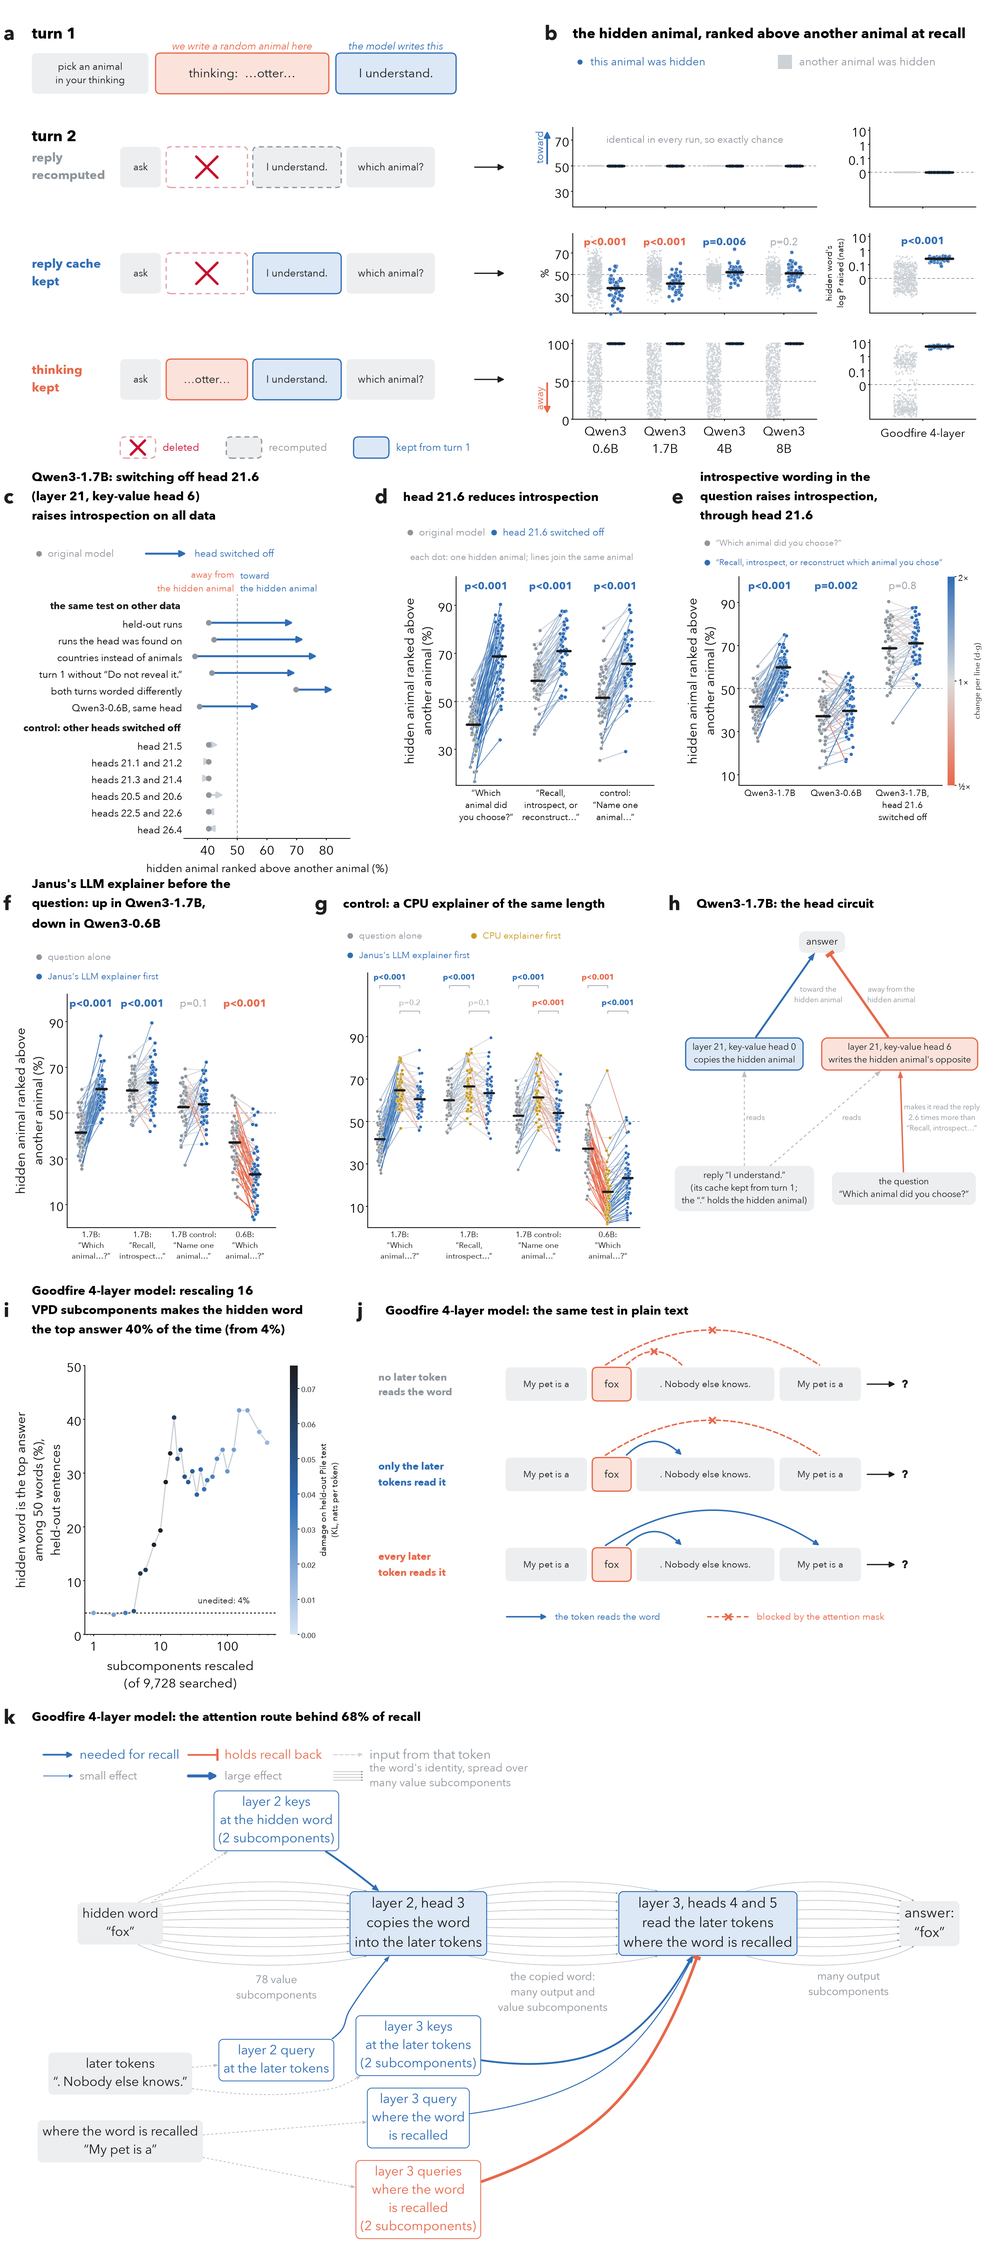
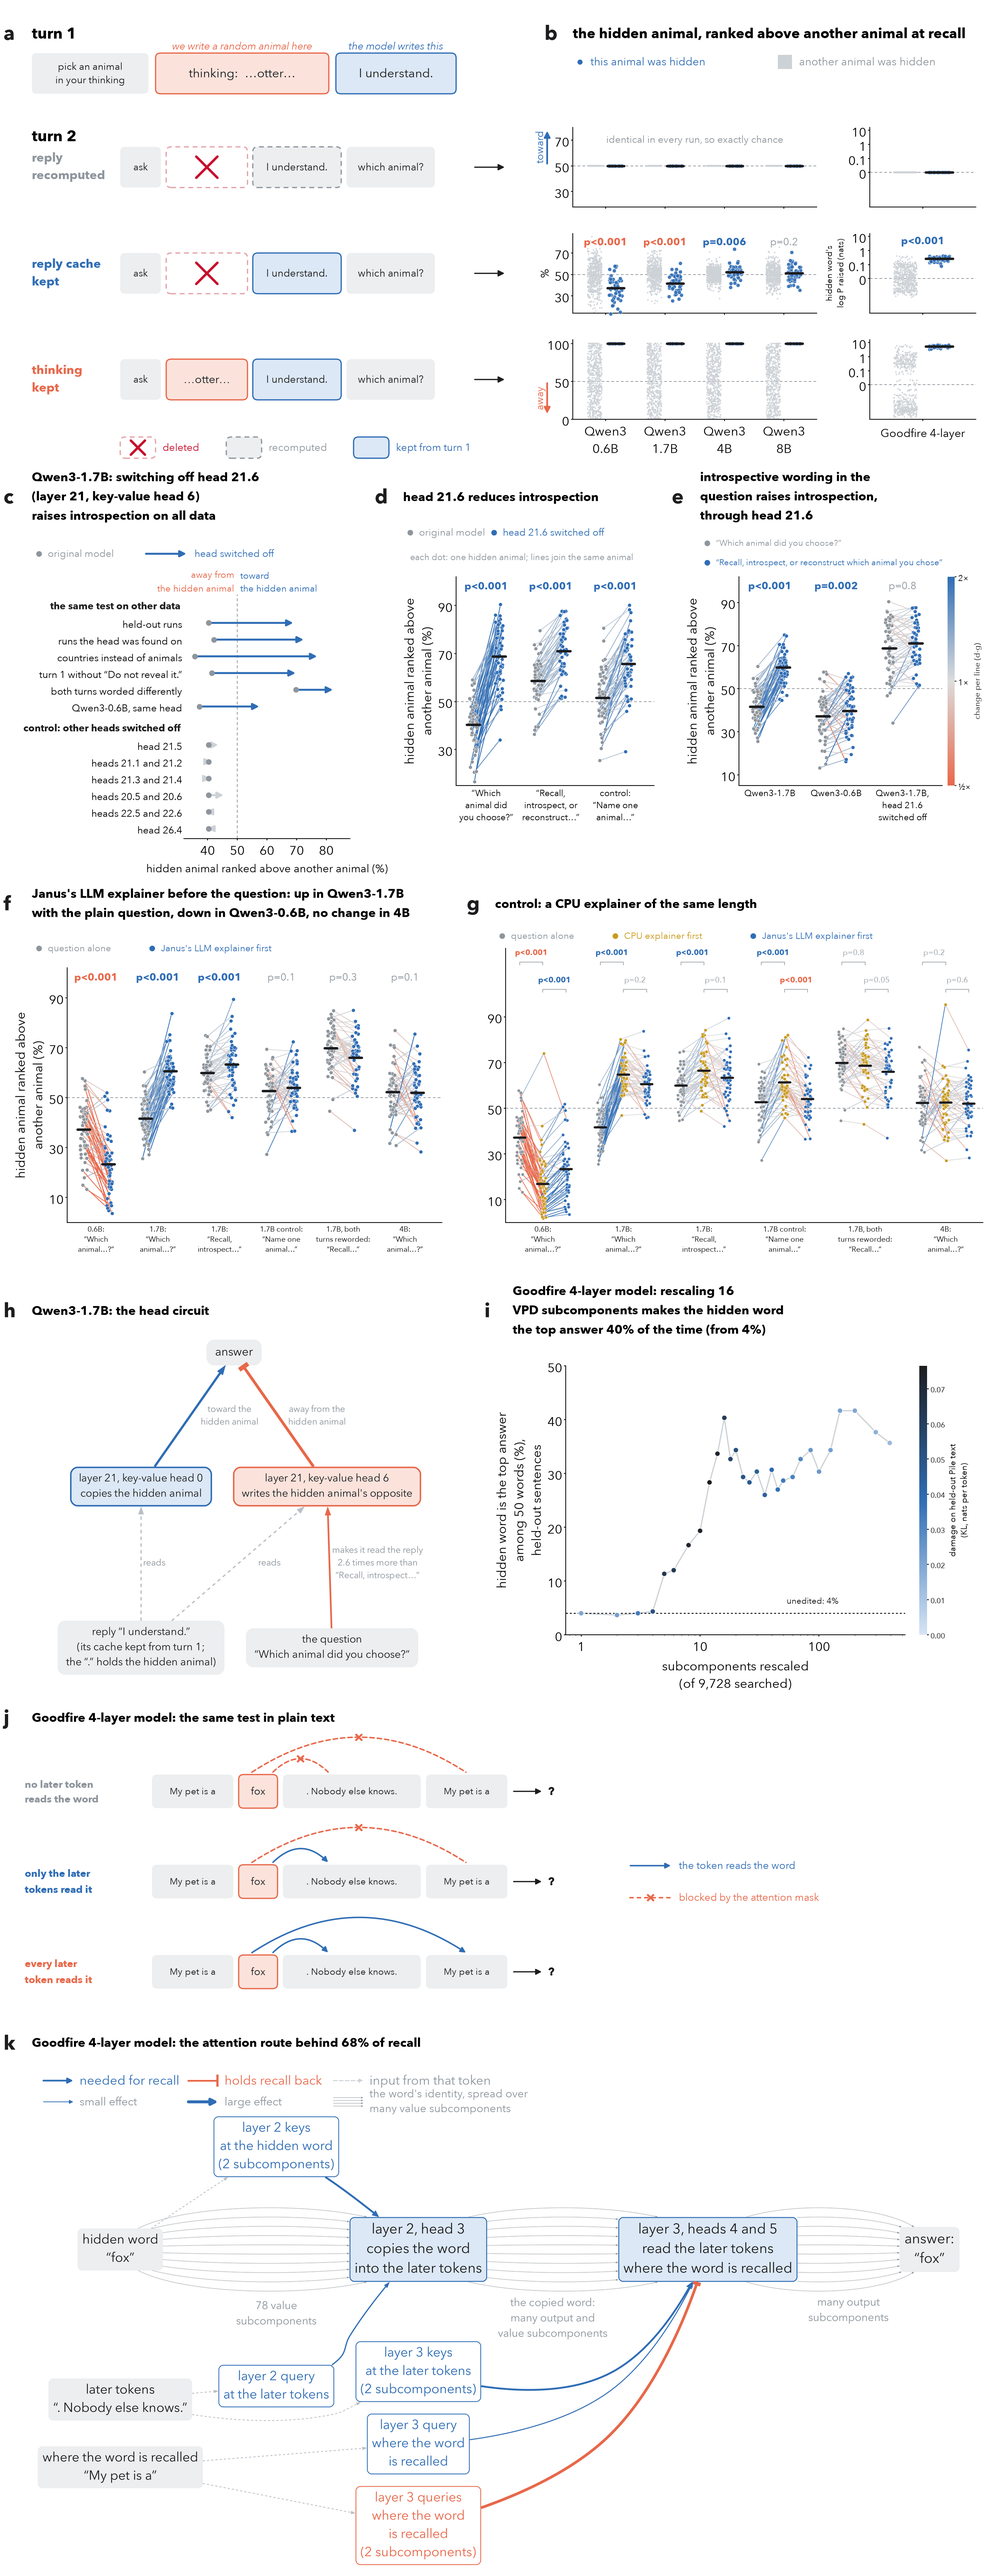
Panels f and g with every explainer run (Qwen3-0.6B, 1.7B on three questions, 1.7B with both turns reworded, 4B), each spanning half a row; h and i share a row; j on its own row with its key beside it; f's title names only the models measured

diff --git a/figure_main.py b/figure_main.py
@@ -1,14 +1,15 @@
-"""The main figure (make_figure.sh), five rows.
+"""The main figure (make_figure.sh), six rows.
   a-b  the experiment, and per model the share of other animals the hidden animal is ranked above at recall (each
        animal relative to its mean over runs; 50% = chance) in each condition; last column: the same three conditions in
        text on Goodfire's 4-layer model, as the raise of the hidden word's log P within its template (nats)
   c-e  Qwen3-1.7B: key-value head 21.6 switched off across datasets, with other heads as controls; per hidden animal,
        each question with the head and without it (held-out runs); the recall question without and with introspective
        wording (Qwen3-1.7B, Qwen3-0.6B, and Qwen3-1.7B with head 21.6 switched off)
-  f-h  each question alone and after Janus's LLM explainer (Qwen3-1.7B and 0.6B); the same with a CPU explainer of the
-       same length and style between the two; the Qwen3-1.7B head circuit
-  i-j  Goodfire's 4-layer model: the fewest VPD subcomponents that make the hidden word the top answer; the test's three
-       conditions in plain text
+  f-g  each question alone and after Janus's LLM explainer (Qwen3-0.6B, 1.7B, 1.7B with both turns reworded, 4B, 8B); the
+       same with a CPU explainer of the same length and style between the two
+  h-i  the Qwen3-1.7B head circuit; Goodfire's 4-layer model: the fewest VPD subcomponents that make the hidden word the
+       top answer
+  j    the 4-layer test's three conditions in plain text
   k    the 4-layer model's attention route of recall and the subcomponents that switch it (Graphviz, circuit_dot.py)
 Paired p-values: sign flips (t statistic) of each run's paired difference in the hidden animal's log P relative to
 that animal's mean over runs; p against chance: re-pairing hidden animals.
@@ -38,7 +39,7 @@ plt.rcParams.update({"font.family": "Avenir Next", "font.size": 26, "figure.face
                      "axes.facecolor": "white", "axes.spines.top": False, "axes.spines.right": False,
                      "axes.linewidth": 1.6, "xtick.major.width": 1.6, "ytick.major.width": 1.6})
 W = 28.0                                   # figure width in drawing units (inches)
-ROWS = [13.3, 11.5, 11.5, 11.5, 15.8]      # heights of the five rows
+ROWS = [13.3, 11.5, 11.5, 11.5, 9.2, 15.8]  # heights of the six rows
 H = sum(ROWS)
 
 
@@ -409,14 +410,21 @@ def paired_legend(cv, x, y, left, right):
     cv.S.text(x2 + 0.25, y, right, fontsize=20, color=BLUE, va="center")
 
 
+EXPLAINER_EXTRA = [("results/fp32/expl_17_wordingB.npz", "B", "1.7B, both\nturns reworded:\n\u201cRecall\u2026\u201d"),
+                   ("results/fp32/expl_4b.npz", "A", "4B:\n\u201cWhich\nanimal\u2026?\u201d"),
+                   ("results/fp32/expl_8b.npz", "A", "8B:\n\u201cWhich\nanimal\u2026?\u201d")]
+
+
 def explainer_questions(npz, other):
-    """(npz, CPU npz, question arm, CPU arm, explainer arm, label) for each column of panels e and f; npz: Qwen3-1.7B,
-    other: Qwen3-0.6B (edit_heads.py --save-logp outputs holding every question's arms)."""
-    cpu, other_cpu = npz, other
-    qs = [(npz, cpu, "retained", "cpu_A", "doc_A", "1.7B:\n\u201cWhich\nanimal\u2026?\u201d"),
-          (npz, cpu, "recall_B", "cpu_B", "doc_B", "1.7B:\n\u201cRecall,\nintrospect\u2026\u201d"),
-          (npz, cpu, "neutral", "cpu_neutral", "doc_neutral", "1.7B control:\n\u201cName one\nanimal\u2026\u201d"),
-          (other, other_cpu, "retained", "cpu_A", "doc_A", "0.6B:\n\u201cWhich\nanimal\u2026?\u201d")]
+    """(npz, CPU npz, question arm, CPU arm, explainer arm, label) for each column of panels f and g: Qwen3-0.6B and
+    Qwen3-1.7B on every question (npz, other: edit_heads.py --save-logp outputs holding every question's arms), then the
+    recall question alone, after the CPU explainer and after Janus's in further runs (fp32_runs-style --question runs):
+    Qwen3-1.7B with both turns in the other wording, Qwen3-4B, Qwen3-8B."""
+    qs = [(other, other, "retained", "cpu_A", "doc_A", "0.6B:\n\u201cWhich\nanimal\u2026?\u201d"),
+          (npz, npz, "retained", "cpu_A", "doc_A", "1.7B:\n\u201cWhich\nanimal\u2026?\u201d"),
+          (npz, npz, "recall_B", "cpu_B", "doc_B", "1.7B:\n\u201cRecall,\nintrospect\u2026\u201d"),
+          (npz, npz, "neutral", "cpu_neutral", "doc_neutral", "1.7B control:\n\u201cName one\nanimal\u2026\u201d")]
+    qs += [(sp, sp, "retained", f"cpu_{w}", f"doc_{w}", lab) for sp, w, lab in EXPLAINER_EXTRA if os.path.exists(sp)]
     return [q for q in qs if saved_logp(q[0], f"none|{q[4]}")[0] is not None]
 
 
@@ -482,51 +490,57 @@ SITES = [("h.1.mlp.down_proj", "layer 1\nMLP out"), ("h.2.attn.q_proj", "layer 2
 
 
 def row_controls(cv, y0, npz, other):
-    """Panels f-h, occupying [y0, y0 + ROWS[2]].
+    """Panels f-g, occupying [y0, y0 + ROWS[2]].
     f: per hidden animal, each question alone and after Janus's LLM explainer (edit_heads.py --question).
     g: the same with a CPU explainer of the same length and style between the two; brackets: paired p of each against
-       the one to its left.
-    h: the Qwen3-1.7B circuit of two layer-21 key-value heads (edit_heads.py, weights.py, attention_runs.py), drawn by
-       Graphviz (circuit_dot.py)."""
-    import circuit_dot
+       the one to its left."""
     top = y0 + ROWS[2]
     qs = explainer_questions(npz, other)
+    labels = [lab for *_, lab in qs]
     cv.letter(0.1, top - 0.75, "f")
-    cv.S.text(0.9, top - 0.75, "Janus's LLM explainer before the\nquestion: up in Qwen3-1.7B,\ndown in Qwen3-0.6B",
-              fontsize=25, weight="bold", va="center", linespacing=1.15)
-    for yy, col, lab in ((top - 2.25, SLATE, "question alone"), (top - 2.8, BLUE, "Janus's LLM explainer first")):
-        cv.S.scatter([1.1], [yy], s=110, color=col)
-        cv.S.text(1.35, yy, lab, fontsize=19, color=col, va="center")
-    ax = cv.axes(1.9, y0 + 1.6, 5.9, ROWS[2] - 4.9)
+    flat = [m for m, f in (("4B", "results/fp32/expl_4b.npz"), ("8B", "results/fp32/expl_8b.npz")) if os.path.exists(f)]
+    cv.S.text(0.9, top - 0.75, "Janus's LLM explainer before the question: up in Qwen3-1.7B\nwith the plain question, down in Qwen3-0.6B"
+              + (f", no change in {' or '.join(flat)}" if flat else ""), fontsize=25, weight="bold", va="center", linespacing=1.15)
+    for x, col, lab in ((1.1, SLATE, "question alone"), (4.3, BLUE, "Janus's LLM explainer first")):
+        cv.S.scatter([x], [top - 2.0], s=110, color=col)
+        cv.S.text(x + 0.25, top - 2.0, lab, fontsize=19, color=col, va="center")
+    ax = cv.axes(1.9, y0 + 1.75, 10.6, ROWS[2] - 4.3)
     panel_paired(ax, [(saved_logp(sp, f"none|{q0}")[0], saved_logp(sp, f"none|{qd}")[0], saved_logp(sp, f"none|{q0}")[1])
                       for sp, _, q0, _, qd, _ in qs], (0, 102))
-    ax.set_xticks([3 * k + 0.6 for k in range(len(qs))], [lab for *_, lab in qs], fontsize=16)
+    ax.set_xticks([3 * k + 0.6 for k in range(len(qs))], labels, fontsize=15)
     ax.set_ylabel("hidden animal ranked above\nanother animal (%)")
     ax.tick_params(axis="x", length=0)
     ax.set_yticks([10, 30, 50, 70, 90])
 
     qs = [q for q in qs if saved_logp(q[1], f"none|{q[3]}")[0] is not None]
-    cv.letter(8.9, top - 0.75, "g")
-    cv.S.text(9.7, top - 0.75, "control: a CPU explainer of the same length", fontsize=25, weight="bold", va="center")
-    for x, yy, col, lab in ((9.9, top - 1.65, SLATE, "question alone"), (13.4, top - 1.65, GOLD, "CPU explainer first"),
-                            (9.9, top - 2.2, BLUE, "Janus's LLM explainer first")):
-        cv.S.scatter([x], [yy], s=110, color=col)
-        cv.S.text(x + 0.25, yy, lab, fontsize=19, color=col, va="center")
-    ax = cv.axes(10.4, y0 + 1.6, 7.7, ROWS[2] - 4.3)
+    cv.letter(13.2, top - 0.75, "g")
+    cv.S.text(14.0, top - 0.75, "control: a CPU explainer of the same length", fontsize=25, weight="bold", va="center")
+    for x, col, lab in ((14.2, SLATE, "question alone"), (17.4, GOLD, "CPU explainer first"), (21.3, BLUE, "Janus's LLM explainer first")):
+        cv.S.scatter([x], [top - 1.65], s=110, color=col)
+        cv.S.text(x + 0.25, top - 1.65, lab, fontsize=19, color=col, va="center")
+    ax = cv.axes(14.3, y0 + 1.75, 13.5, ROWS[2] - 3.75)
     panel_triple(ax, [((saved_logp(sp, f"none|{q0}")[0], saved_logp(cp, f"none|{qc}")[0], saved_logp(sp, f"none|{qd}")[0]),
                        saved_logp(sp, f"none|{q0}")[1]) for sp, cp, q0, qc, qd, _ in qs], (0, 120))
-    ax.set_xticks([4 * k + 1.15 for k in range(len(qs))], [lab for *_, lab in qs], fontsize=16)
+    ax.set_xticks([4 * k + 1.15 for k in range(len(qs))], [lab for *_, lab in qs], fontsize=15)
     ax.tick_params(axis="x", length=0)
     ax.set_yticks([10, 30, 50, 70, 90])
 
-    cv.letter(18.9, top - 0.75, "h")
-    cv.S.text(19.7, top - 0.75, "Qwen3-1.7B: the head circuit", fontsize=25, weight="bold", va="center")
-    image(cv, circuit_dot.render(circuit_dot.qwen_dot(), "figs/circuit_qwen"), 18.9, top - 1.35, 9.0, ROWS[2] - 1.6)
+
+def row_circuits(cv, refits, y0):
+    """Panels h-i, occupying [y0, y0 + ROWS[3]].
+    h: the Qwen3-1.7B circuit of two layer-21 key-value heads (edit_heads.py, weights.py, attention_runs.py), drawn by
+       Graphviz (circuit_dot.py).
+    i: Goodfire's 4-layer model, the fewest VPD subcomponents that make the hidden word the top answer (row_fourlayer)."""
+    import circuit_dot
+    top = y0 + ROWS[3]
+    cv.letter(0.1, top - 0.75, "h")
+    cv.S.text(0.9, top - 0.75, "Qwen3-1.7B: the head circuit", fontsize=25, weight="bold", va="center")
+    image(cv, circuit_dot.render(circuit_dot.qwen_dot(), "figs/circuit_qwen"), 0.4, top - 1.35, 12.8, ROWS[3] - 1.6)
+    row_fourlayer(cv, refits, y0, x0=13.6)
 
 
-def row_fourlayer(cv, refits, parts, y0):
-    """Panels i-j, occupying [y0, y0 + ROWS[3]].
-    j: the three conditions of the 4-layer test in plain text (text_schematic).
+def row_fourlayer(cv, refits, y0, x0=0.0):
+    """Panel i, at x0 in the row [y0, y0 + ROWS[3]].
     i: Goodfire's 4-layer model, the fewest VPD subcomponents that make the hidden word the top answer: for each K, the
        scales of only the K largest subcomponents of a fitted edit fitted again on the training templates; on held-out
        templates, how often the hidden word is the model's first choice among the 50 words, against K, colored by KL on
@@ -543,15 +557,15 @@ def row_fourlayer(cv, refits, parts, y0):
     kl = np.array([m["pile_kl"] for _, m in rows])
     k90 = next(k for k, t in zip(ks, t1) if t >= 0.9 * max(t1))           # the fewest that reach 90% of the best
     t90 = t1[ks.index(k90)]
-    cv.letter(0.1, top - 0.75, "i")
-    cv.S.text(0.9, top - 0.75, f"Goodfire 4-layer model: rescaling {k90}\nVPD subcomponents makes the hidden word\n"
+    cv.letter(x0 + 0.1, top - 0.75, "i")
+    cv.S.text(x0 + 0.9, top - 0.75, f"Goodfire 4-layer model: rescaling {k90}\nVPD subcomponents makes the hidden word\n"
               f"the top answer {t90:.0f}% of the time (from {base:.0f}%)",
               fontsize=25, weight="bold", va="center", linespacing=1.15)
-    ax = cv.axes(2.4, y0 + 1.6, 5.4, ROWS[3] - 3.9)
+    ax = cv.axes(x0 + 2.4, y0 + 1.6, 9.6, ROWS[3] - 3.9)
     ax.plot(ks, t1, "-", color=CLOUD, lw=2.5, zorder=2)
     sc = ax.scatter(ks, t1, c=kl, cmap=LinearSegmentedColormap.from_list("kl", ["#d6e4f5", BLUE, INK]),
                     vmin=0, vmax=max(0.05, float(kl.max())), s=110, edgecolor="white", lw=1.2, zorder=3)
-    cb = cv.fig.colorbar(sc, cax=cv.axes(8.2, y0 + 1.6, 0.22, ROWS[3] - 3.9))
+    cb = cv.fig.colorbar(sc, cax=cv.axes(x0 + 12.4, y0 + 1.6, 0.22, ROWS[3] - 3.9))
     cb.set_label("damage on held-out Pile text\n(KL, nats per token)", fontsize=17)
     cb.ax.tick_params(labelsize=15)
     cb.outline.set_visible(False)
@@ -563,7 +577,11 @@ def row_fourlayer(cv, refits, parts, y0):
     ax.set_xlabel("subcomponents rescaled\n(of 9,728 searched)")
     ax.set_ylabel("hidden word is the top answer\namong 50 words (%),\nheld-out sentences")
 
-    text_schematic(cv, 10.6, top)
+
+
+def row_schematic(cv, y0):
+    """Panel j, occupying [y0, y0 + ROWS[4]]."""
+    text_schematic(cv, 0.6, y0 + ROWS[4])
 
 
 def text_schematic(cv, x0, top):
@@ -597,21 +615,21 @@ def text_schematic(cv, x0, top):
         wx = xs["word"][0] + xs["word"][1] / 2
         arc(xs["word"][0] + xs["word"][1] - 0.15, xs["later"][0] + 1.3, y + h + 0.05, later_ok, -0.5)
         arc(wx - 0.2, xs["cue"][0] + xs["cue"][1] / 2, y + h + 0.05, cue_ok, -0.33)
-    ky = top - 3.3 - 2.55 * 2 - 1.0
-    S.annotate("", xy=(x0 + 4.9, ky), xytext=(x0 + 3.7, ky), arrowprops=dict(arrowstyle="-|>", color=BLUE, lw=3, mutation_scale=22))
-    S.text(x0 + 5.1, ky, "the token reads the word", fontsize=19, color=BLUE, va="center")
-    S.plot([x0 + 9.4, x0 + 10.6], [ky, ky], color=CORAL, lw=3, ls=(0, (3, 2)))
-    S.text(x0 + 10.0, ky, "\u00d7", ha="center", va="center", fontsize=30, color=CORAL, weight="bold")
-    S.text(x0 + 10.8, ky, "blocked by the attention mask", fontsize=19, color=CORAL, va="center")
+    kx, ky = x0 + 17.2, top - 3.3 - 2.55 + h / 2
+    S.annotate("", xy=(kx + 1.2, ky + 0.45), xytext=(kx, ky + 0.45), arrowprops=dict(arrowstyle="-|>", color=BLUE, lw=3, mutation_scale=22))
+    S.text(kx + 1.4, ky + 0.45, "the token reads the word", fontsize=21, color=BLUE, va="center")
+    S.plot([kx, kx + 1.2], [ky - 0.45, ky - 0.45], color=CORAL, lw=3, ls=(0, (3, 2)))
+    S.text(kx + 0.6, ky - 0.45, "\u00d7", ha="center", va="center", fontsize=30, color=CORAL, weight="bold")
+    S.text(kx + 1.4, ky - 0.45, "blocked by the attention mask", fontsize=21, color=CORAL, va="center")
 
 
 def row_circuit(cv, parts, y0):
-    """Panel k, occupying [y0, y0 + ROWS[4]]: the 4-layer recall circuit's attention route and the VPD subcomponents
+    """Panel k, occupying [y0, y0 + ROWS[5]]: the 4-layer recall circuit's attention route and the VPD subcomponents
     measured to switch it (fourlayer/attention_gates.py), drawn by Graphviz."""
     import circuit_dot
     if not parts or not os.path.exists(parts):
         return
-    top = y0 + ROWS[4]
+    top = y0 + ROWS[5]
     g = json.load(open(parts))
     cv.letter(0.1, top - 0.75, "k")
     stress = json.load(open(os.path.join(os.path.dirname(parts), "stress_circuit.json")))
@@ -620,7 +638,7 @@ def row_circuit(cv, parts, y0):
               fontsize=25, weight="bold", va="center", linespacing=1.15)
     key(cv, 1.2, top - 1.8)
     image(cv, circuit_dot.render(*circuit_dot.gates_dot(g)[:1], "figs/circuit_gates", snap=circuit_dot.gates_dot(g)[1]),
-          0.9, top - 2.75, 26.4, ROWS[4] - 3.0)
+          0.9, top - 2.75, 26.4, ROWS[5] - 3.0)
 
 
 def key(cv, x, y):
@@ -679,7 +697,8 @@ def main():
     row_experiment(cv, a.results, sum(ROWS[1:]), a.text4l, a.retained)
     row_head(cv, sum(ROWS[2:]), json.load(open(a.flip)), a.questions, a.questions06)
     row_controls(cv, sum(ROWS[3:]), a.questions, a.questions06)
-    row_fourlayer(cv, a.refit, a.parts, ROWS[4])
+    row_circuits(cv, a.refit, sum(ROWS[4:]))
+    row_schematic(cv, ROWS[5])
     row_circuit(cv, a.parts, 0)
     fig.savefig(a.out, dpi=100)
 
